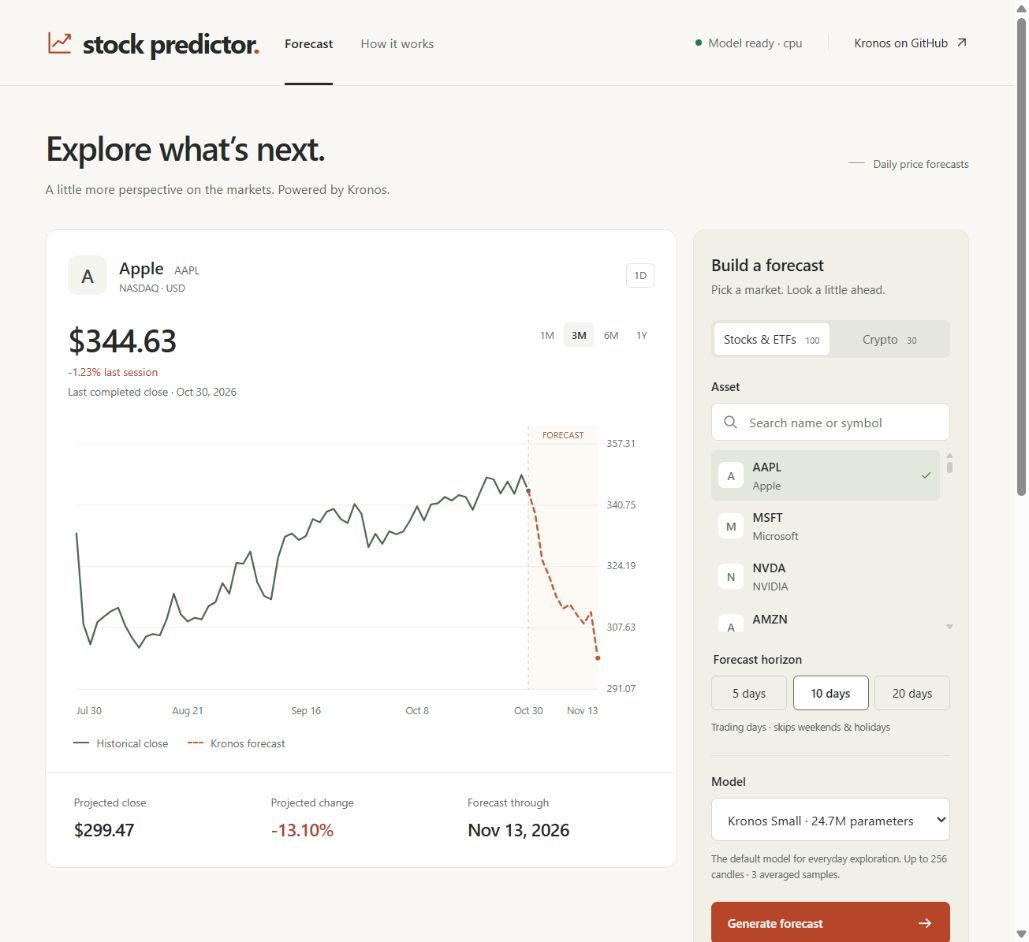
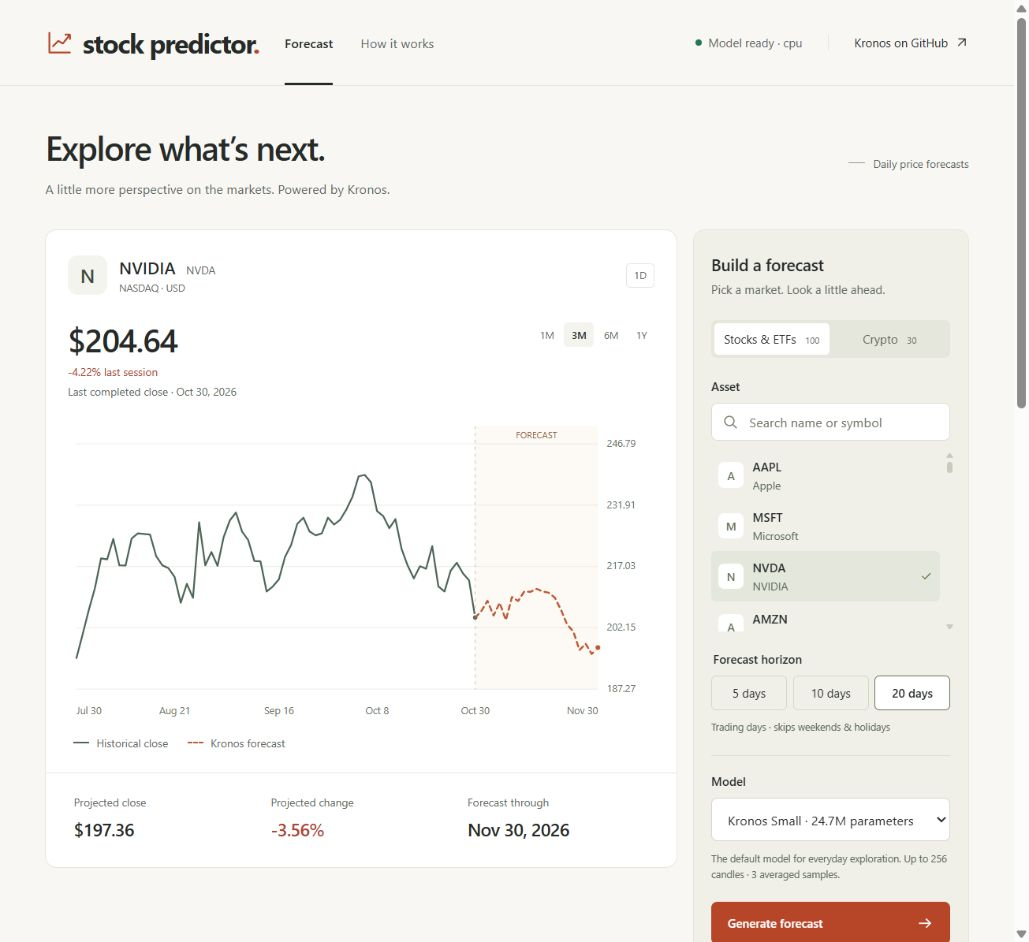
docs: show NVIDIA 20-day forecast in README

diff --git a/README.md b/README.md
@@ -11,7 +11,7 @@
   <p><a href="#quick-start">Quick start</a> · <a href="#run-with-docker">Docker</a> · <a href="#choose-your-model">Models</a> · <a href="docs/deployment.md">Deployment</a> · <a href="CONTRIBUTING.md">Contributing</a></p>
 </div>
 
-![Stock Predictor showing a stock forecast, observed prices and model controls](docs/images/forecast-desktop.jpg)
+![Stock Predictor showing NVIDIA (NVDA) with a 20-trading-day Kronos Small forecast](docs/images/forecast-desktop.jpg)
 
 Stock Predictor is a small, self-hostable research app: pick an asset, choose a Kronos model and explore its projected daily closes. A single Python service serves the interface and runs inference on your machine. No frontend build step or paid data API key is required.
 
